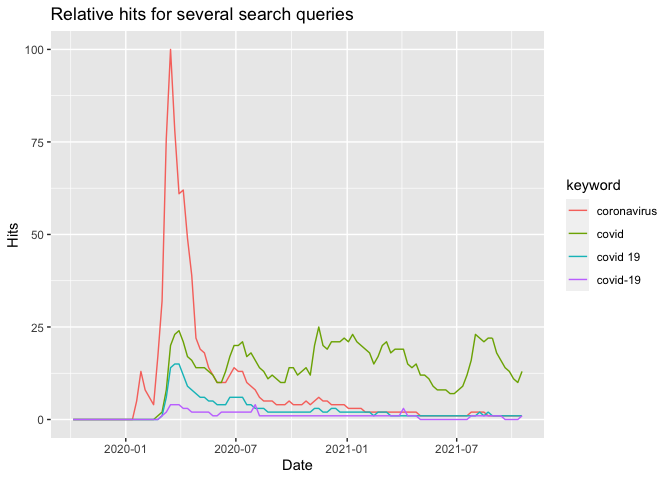
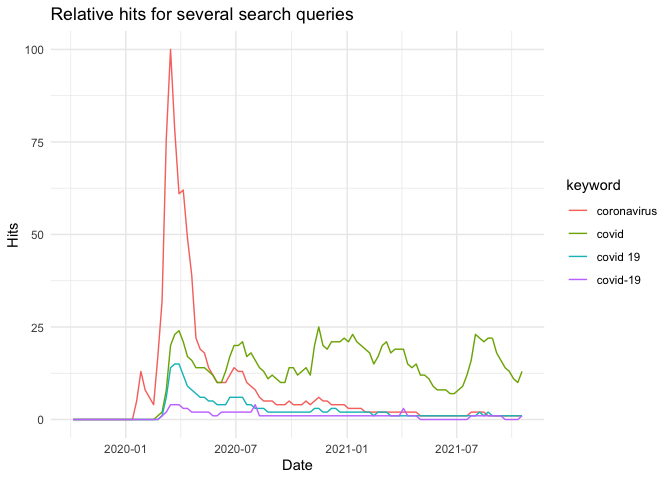
final knit and figures

diff --git a/project-report.md b/project-report.md
@@ -436,7 +436,8 @@ df_covid_gtrends %>%
     x = "Date", 
     y = "Hits", 
     title = "Relative hits for several search queries"
-  )
+  ) +
+  theme_minimal()
 ```
 
 ![](project-report_files/figure-gfm/unnamed-chunk-3-1.png)<!-- -->
@@ -469,7 +470,8 @@ df_nyt_national %>%
     name = "Daily COVID cases",
     sec.axis = sec_axis(~. * 1 / 3000, name="Search Popularity")
   ) +
-  labs(x = "Date")
+  labs(x = "Date") +
+  theme_minimal()
 ```
 
     ## Warning: Removed 1 row(s) containing missing values (geom_path).
@@ -664,7 +666,8 @@ df_startofcovid_gtrends %>%
     labels = c("New Covid Cases in the US"),
     values = c("dashed")
   ) +
-  theme(legend.title = element_blank())
+  theme(legend.title = element_blank()) +
+  theme_minimal()
 ```
 
 ![](project-report_files/figure-gfm/unnamed-chunk-5-1.png)<!-- --> What
@@ -726,7 +729,8 @@ df_nyt_national_twoweeks %>%
   scale_y_continuous(
     name = "Daily COVID cases",
     sec.axis = sec_axis(~. * 1 / scale_factor, name = "Search Popularity")
-  )
+  ) +
+  theme_minimal()
 ```
 
 ![](project-report_files/figure-gfm/unnamed-chunk-6-1.png)<!-- -->
@@ -793,7 +797,8 @@ df_nyt_national %>%
     name = "Number of New Cases", 
     sec.axis = sec_axis(~. / scale_factor, name = "Popularity of Google Search")
   ) +
-  theme(legend.position = 'bottom')
+  theme(legend.position = 'bottom') +
+  theme_minimal()
 ```
 
     ## Warning: Removed 1 row(s) containing missing values (geom_path).
@@ -813,7 +818,8 @@ df_vax %>%
   scale_y_continuous(
     name = "Daily Vaccinations in the United States", 
     sec.axis = sec_axis(~. / scale_factor, name = "Popularity of Google Search")
-  )
+  ) +
+  theme_minimal()
 ```
 
 ![](project-report_files/figure-gfm/unnamed-chunk-9-1.png)<!-- -->
@@ -907,7 +913,8 @@ df_nyt_national %>%
   guides(
     fill = guide_legend(keywidth = 3, keyheight = 1), 
     linetype = guide_legend(keywidth = 3, keyheight = 1)
-  )
+  ) +
+  theme_minimal()
 ```
 
     ## Warning: Removed 1 row(s) containing missing values (geom_path).
@@ -992,11 +999,16 @@ df_nyt_national %>%
     title = 
       "Google search popularity for 'Ivermectin for sale'\n and Daily COVID cases in the U.S.",
     caption = "COVID data has been smoothed with a 7-day moving average to account\n for weekly inaccuracies due to test numbers decreasing on weekends."
-  )
+  ) + theme_minimal()
 ```
 
-![](project-report_files/figure-gfm/unnamed-chunk-11-1.png)<!-- --> In
-this case we look at the search term “ivermectin for sale” which we
+![](project-report_files/figure-gfm/unnamed-chunk-11-1.png)<!-- -->
+
+``` r
+ggsave("ivermectin.png", width = 8, height = 3, dpi = 2000)
+```
+
+In this case we look at the search term “ivermectin for sale” which we
 believe is likely to be more closely linked with intention to buy and
 use the drug than a search for “ivermectin”. When we look at this in
 relation to daily COVID cases we see that after about the third quarter
@@ -1074,7 +1086,8 @@ df_vax %>%
     title = 
       "Google search popularity for 'vaccine 5g' and daily vaccinations"
   ) +
-  theme(plot.title = element_text(hjust = 0.5))
+  theme(plot.title = element_text(hjust = 0.5)) +
+  theme_minimal()
 ```
 
 ![](project-report_files/figure-gfm/unnamed-chunk-12-1.png)<!-- -->
